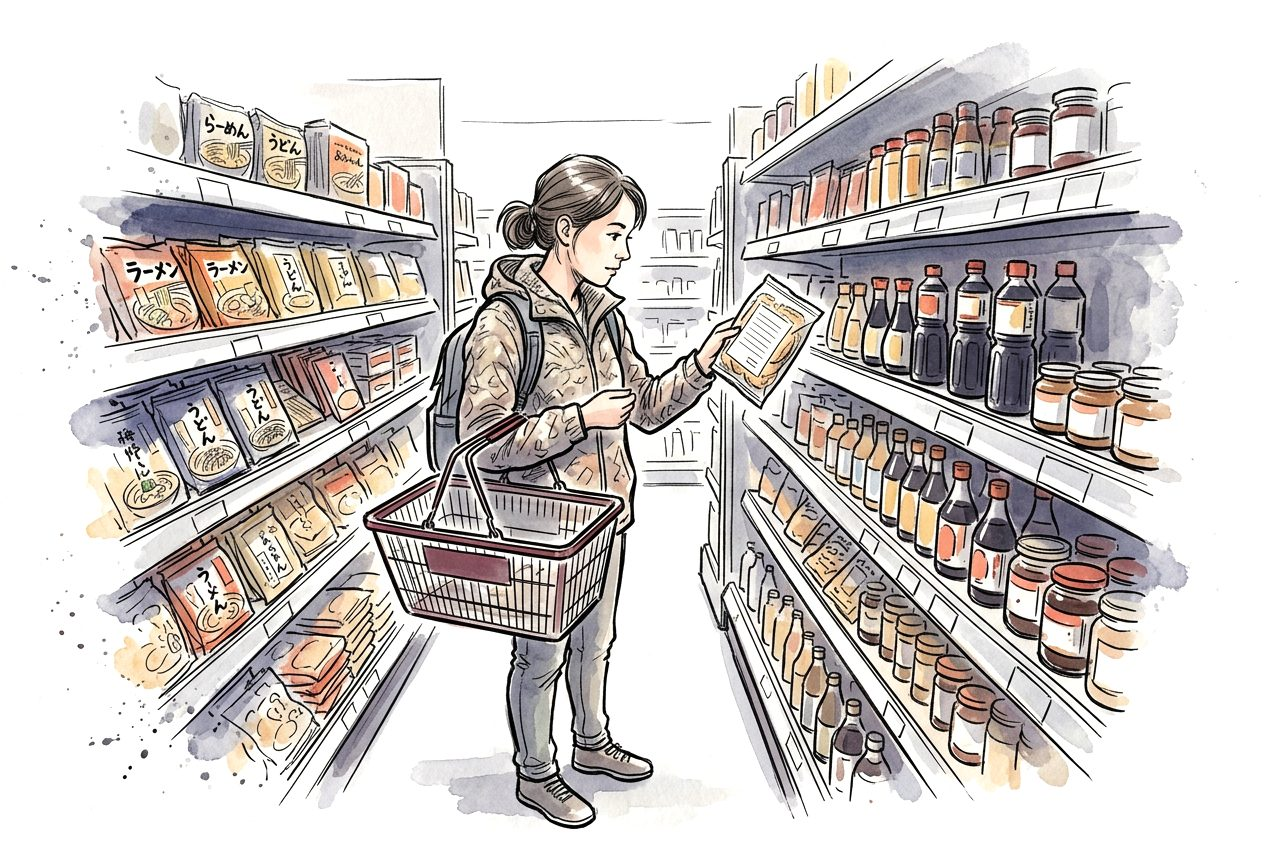
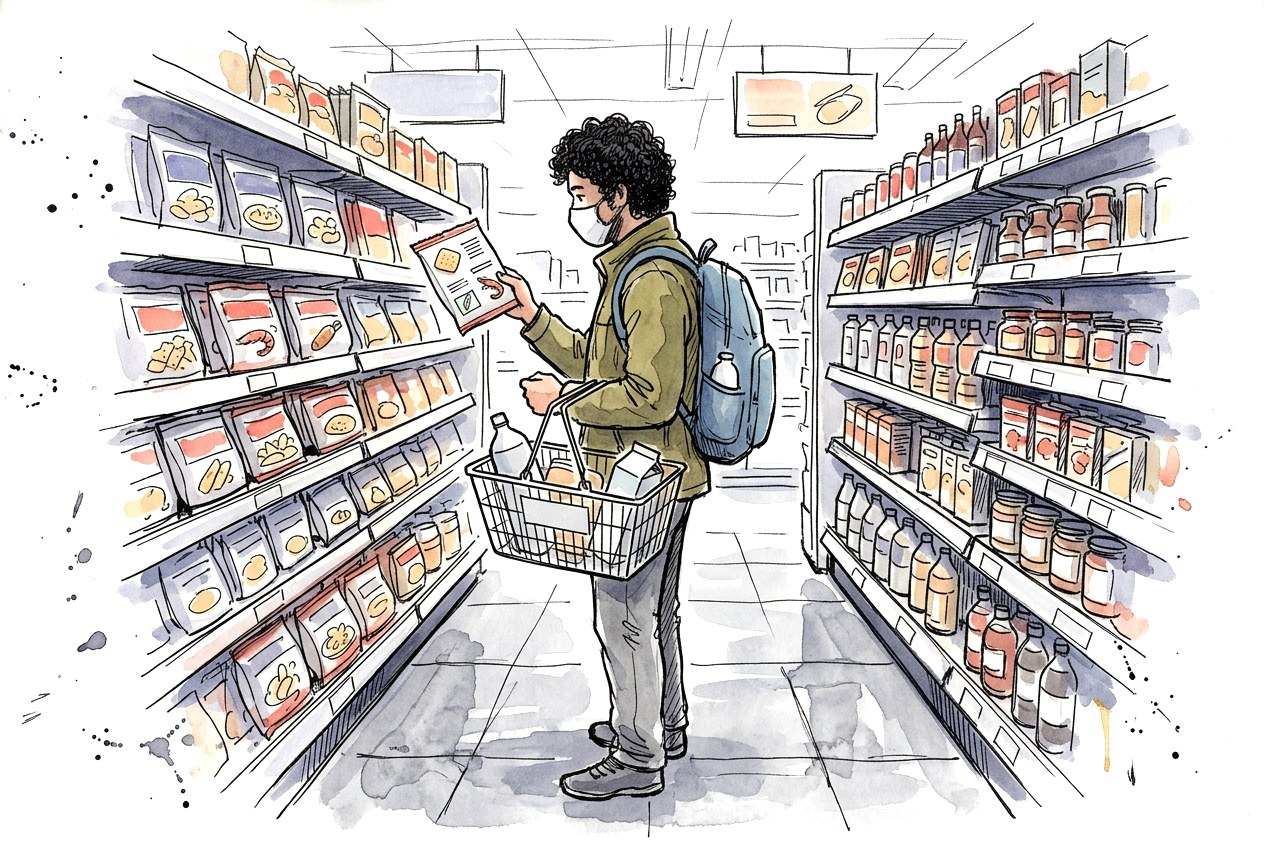
fix(celiac): supermarket illustration without garbled packet lettering
Claude-Session: https://claude.ai/code/session_01UpttBQPap9JzyZfAZEcyqK

diff --git a/src/assets/illustrations/supermarket.md b/src/assets/illustrations/supermarket.md
@@ -1,2 +1,2 @@
-Generated with Figma AI (gemini-3.1-flash-image), 2026-10-12, then levelled to pure-white paper.
-Prompt: Loose hand-drawn black ink line illustration with soft watercolour washes, in the style of an urban sketchbook. Palette: muted indigo, soft vermilion red, warm ochre, grey, lots of white paper. Scene: a traveller in a Japanese supermarket aisle turns over a packet of rice crackers to read the label. The illustration fades out into white paper at the edges with a few ink and watercolour splatters. No text anywhere.
+Generated with Figma AI (gemini-3.1-flash-image), 2026-10-12, then levelled to pure-white paper. Regenerated with no lettering after the first version showed garbled kanji on packets.
+Prompt: Loose hand-drawn black ink line illustration with soft watercolour washes, in the style of an urban sketchbook. Palette: muted indigo, soft vermilion red, warm ochre, grey, lots of white paper. Scene: a traveller with a shopping basket in a Japanese supermarket aisle turns over a packet of rice crackers to read the label on its back. Shelves of snack packets, bottles and jars on both sides. All packets, labels and signs are completely blank or show only simple pictures of food — absolutely no letters, no Japanese characters, no writing of any kind anywhere. The illustration fades out into white paper at the edges with a few ink and watercolour splatters. No text anywhere.
